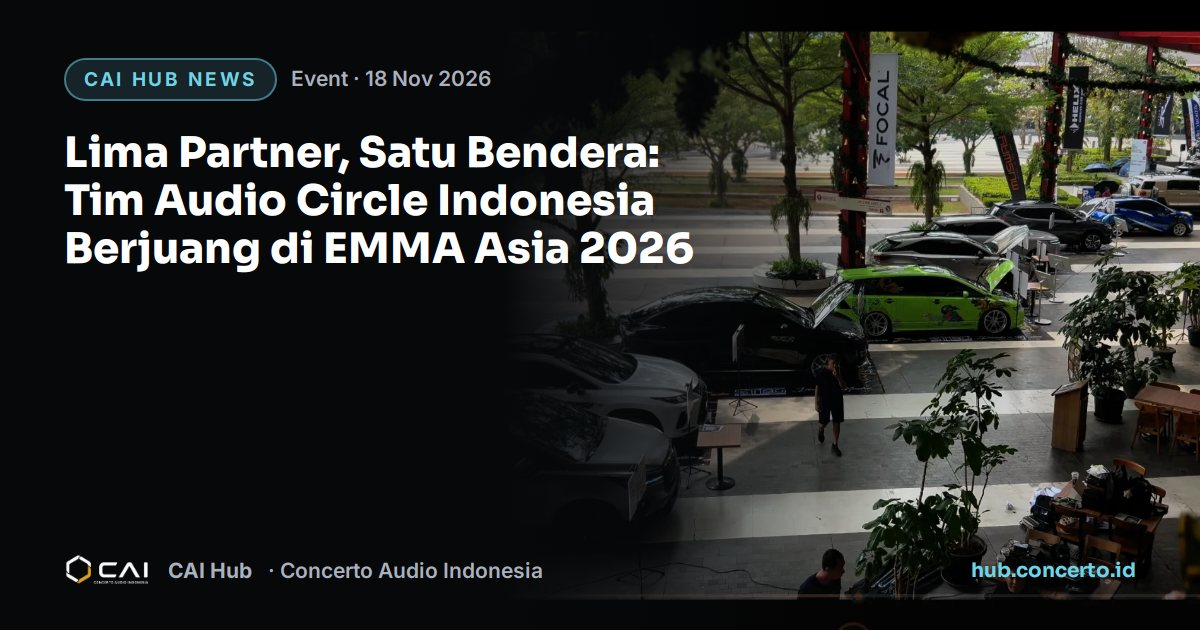
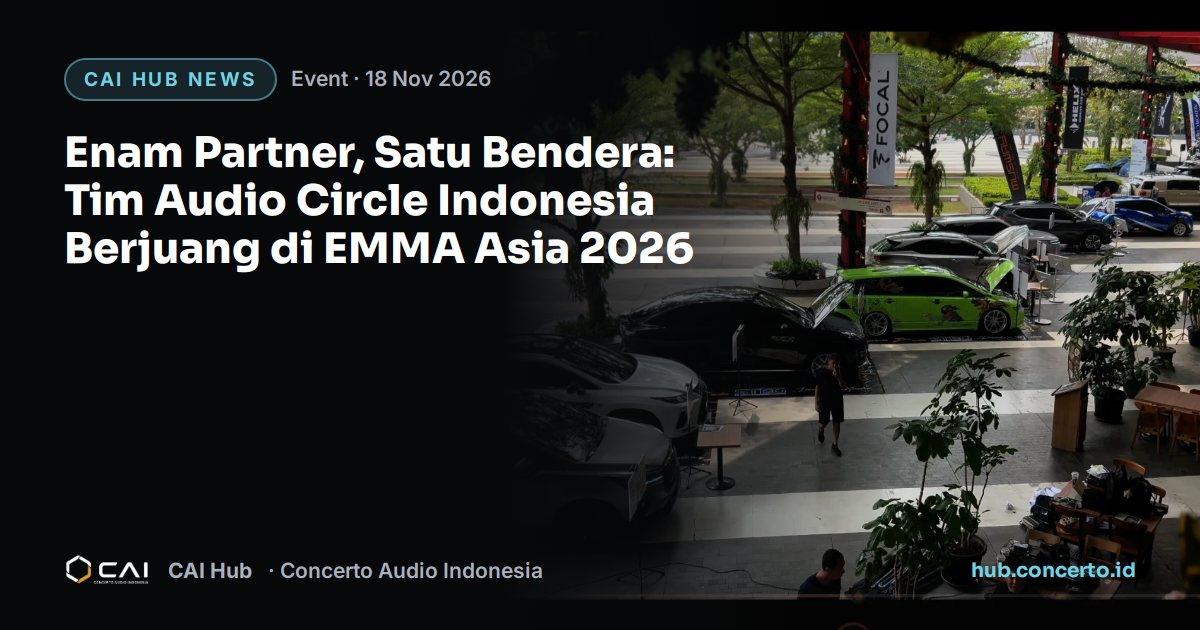
Kartu WA, media & halaman Google diperbarui otomatis

Changed region(s): [[0.0617, 0.2111, 0.5858, 0.2714]]

diff --git a/n/4c18d8cd-0b61-4570-ab29-3e08842cf04a/index.html b/n/4c18d8cd-0b61-4570-ab29-3e08842cf04a/index.html
@@ -1,26 +1,26 @@
 <!doctype html>
 <html lang="id"><head><meta charset="utf-8">
-<title>Lima Partner, Satu Bendera: Tim Audio Circle Indonesia Berjuang di EMMA Asia 2026 · CAI Hub</title>
+<title>Enam Partner, Satu Bendera: Tim Audio Circle Indonesia Berjuang di EMMA Asia 2026 · CAI Hub</title>
 <meta name="viewport" content="width=device-width,initial-scale=1">
 <meta name="robots" content="noindex">
 <meta name="description" content="Ada kompetisi, dan ada EMMA Asia. Ini salah satu panggung car audio paling sulit dan paling bergengsi di Asia, diikuti peserta dari 9 negara.">
 <meta property="og:type" content="article">
 <meta property="og:site_name" content="CAI Hub">
 <meta property="og:locale" content="id_ID">
-<meta property="og:title" content="Lima Partner, Satu Bendera: Tim Audio Circle Indonesia Berjuang di EMMA Asia 2026">
+<meta property="og:title" content="Enam Partner, Satu Bendera: Tim Audio Circle Indonesia Berjuang di EMMA Asia 2026">
 <meta property="og:description" content="Ada kompetisi, dan ada EMMA Asia. Ini salah satu panggung car audio paling sulit dan paling bergengsi di Asia, diikuti peserta dari 9 negara.">
 <meta property="og:url" content="https://hub.concerto.id/n/4c18d8cd-0b61-4570-ab29-3e08842cf04a/">
-<meta property="og:image" content="https://hub.concerto.id/share/img/n-4c18d8cd-0b61-4570-ab29-3e08842cf04a.jpg?v=5d9c97ef">
+<meta property="og:image" content="https://hub.concerto.id/share/img/n-4c18d8cd-0b61-4570-ab29-3e08842cf04a.jpg?v=f449b8cf">
 <meta property="og:image:width" content="1200">
 <meta property="og:image:height" content="630">
-<meta property="og:image:alt" content="Lima Partner, Satu Bendera: Tim Audio Circle Indonesia Berjuang di EMMA Asia 2026">
+<meta property="og:image:alt" content="Enam Partner, Satu Bendera: Tim Audio Circle Indonesia Berjuang di EMMA Asia 2026">
 <meta name="twitter:card" content="summary_large_image">
-<meta name="twitter:title" content="Lima Partner, Satu Bendera: Tim Audio Circle Indonesia Berjuang di EMMA Asia 2026">
+<meta name="twitter:title" content="Enam Partner, Satu Bendera: Tim Audio Circle Indonesia Berjuang di EMMA Asia 2026">
 <meta name="twitter:description" content="Ada kompetisi, dan ada EMMA Asia. Ini salah satu panggung car audio paling sulit dan paling bergengsi di Asia, diikuti peserta dari 9 negara.">
-<meta name="twitter:image" content="https://hub.concerto.id/share/img/n-4c18d8cd-0b61-4570-ab29-3e08842cf04a.jpg?v=5d9c97ef">
+<meta name="twitter:image" content="https://hub.concerto.id/share/img/n-4c18d8cd-0b61-4570-ab29-3e08842cf04a.jpg?v=f449b8cf">
 <link rel="icon" href="/favicon.ico">
 <meta http-equiv="refresh" content="0; url=/?news=4c18d8cd-0b61-4570-ab29-3e08842cf04a">
 <script>location.replace("/?news=4c18d8cd-0b61-4570-ab29-3e08842cf04a" + (location.search ? '&' + location.search.slice(1) : '') + location.hash);</script>
 </head><body style="background:#07080a;color:#eceef2;font-family:sans-serif;text-align:center;padding:40px">
-<p>Membuka CAI Hub…</p><p><a style="color:#d8b26a" href="/?news=4c18d8cd-0b61-4570-ab29-3e08842cf04a">Lima Partner, Satu Bendera: Tim Audio Circle Indonesia Berjuang di EMMA Asia 2026</a></p>
+<p>Membuka CAI Hub…</p><p><a style="color:#d8b26a" href="/?news=4c18d8cd-0b61-4570-ab29-3e08842cf04a">Enam Partner, Satu Bendera: Tim Audio Circle Indonesia Berjuang di EMMA Asia 2026</a></p>
 </body></html>
